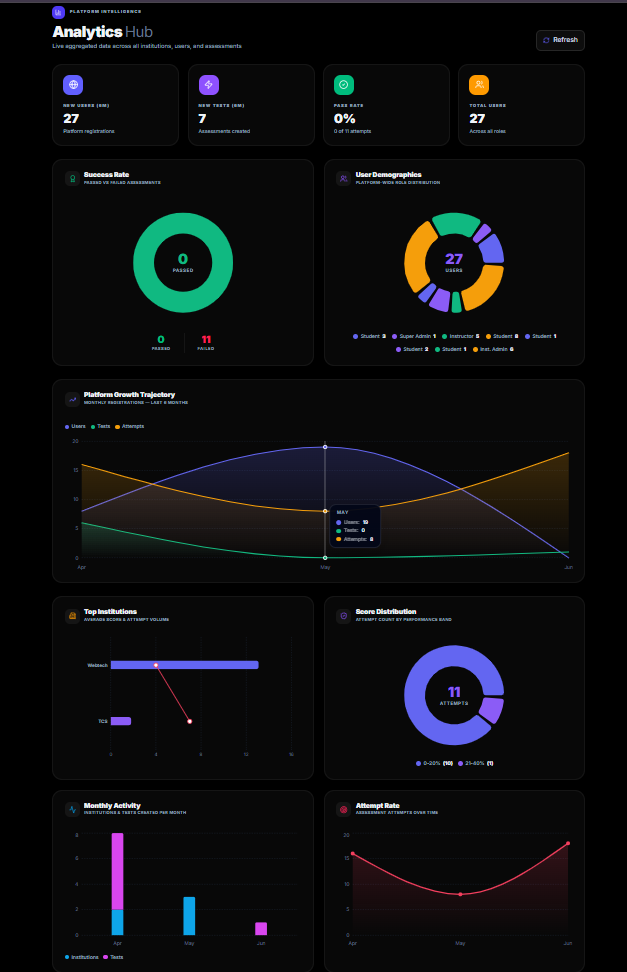
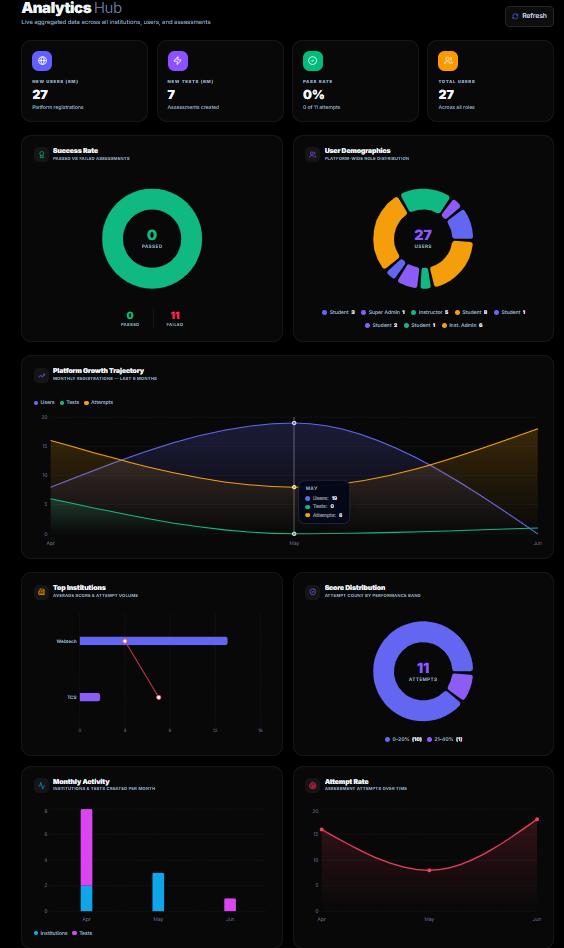
readme updated

diff --git a/README.md b/README.md
@@ -47,8 +47,8 @@
   <img src="client/public/Banner21.png" width="32%" />
 </p>
 <p align="center">
-  <img src="client/public/Banner22.png" width="49%" />
-  <img src="client/public/Banner23.png" width="49%" />
+  <img src="client/public/Banner22.png" width="400" height="500" />
+  <img src="client/public/Banner23.png" width="400" height="500" />
 </p>
 
 **TESTFLOW** is a highly scalable, production-ready Online Test Portal Engine designed to automate and streamline the assessment process. Built on a robust MERN (MongoDB, Express, React, Node.js) stack, it handles large-scale concurrent users, asynchronous jobs via Redis and BullMQ, and features an intelligent PDF Parsing Engine equipped with OCR capabilities.
